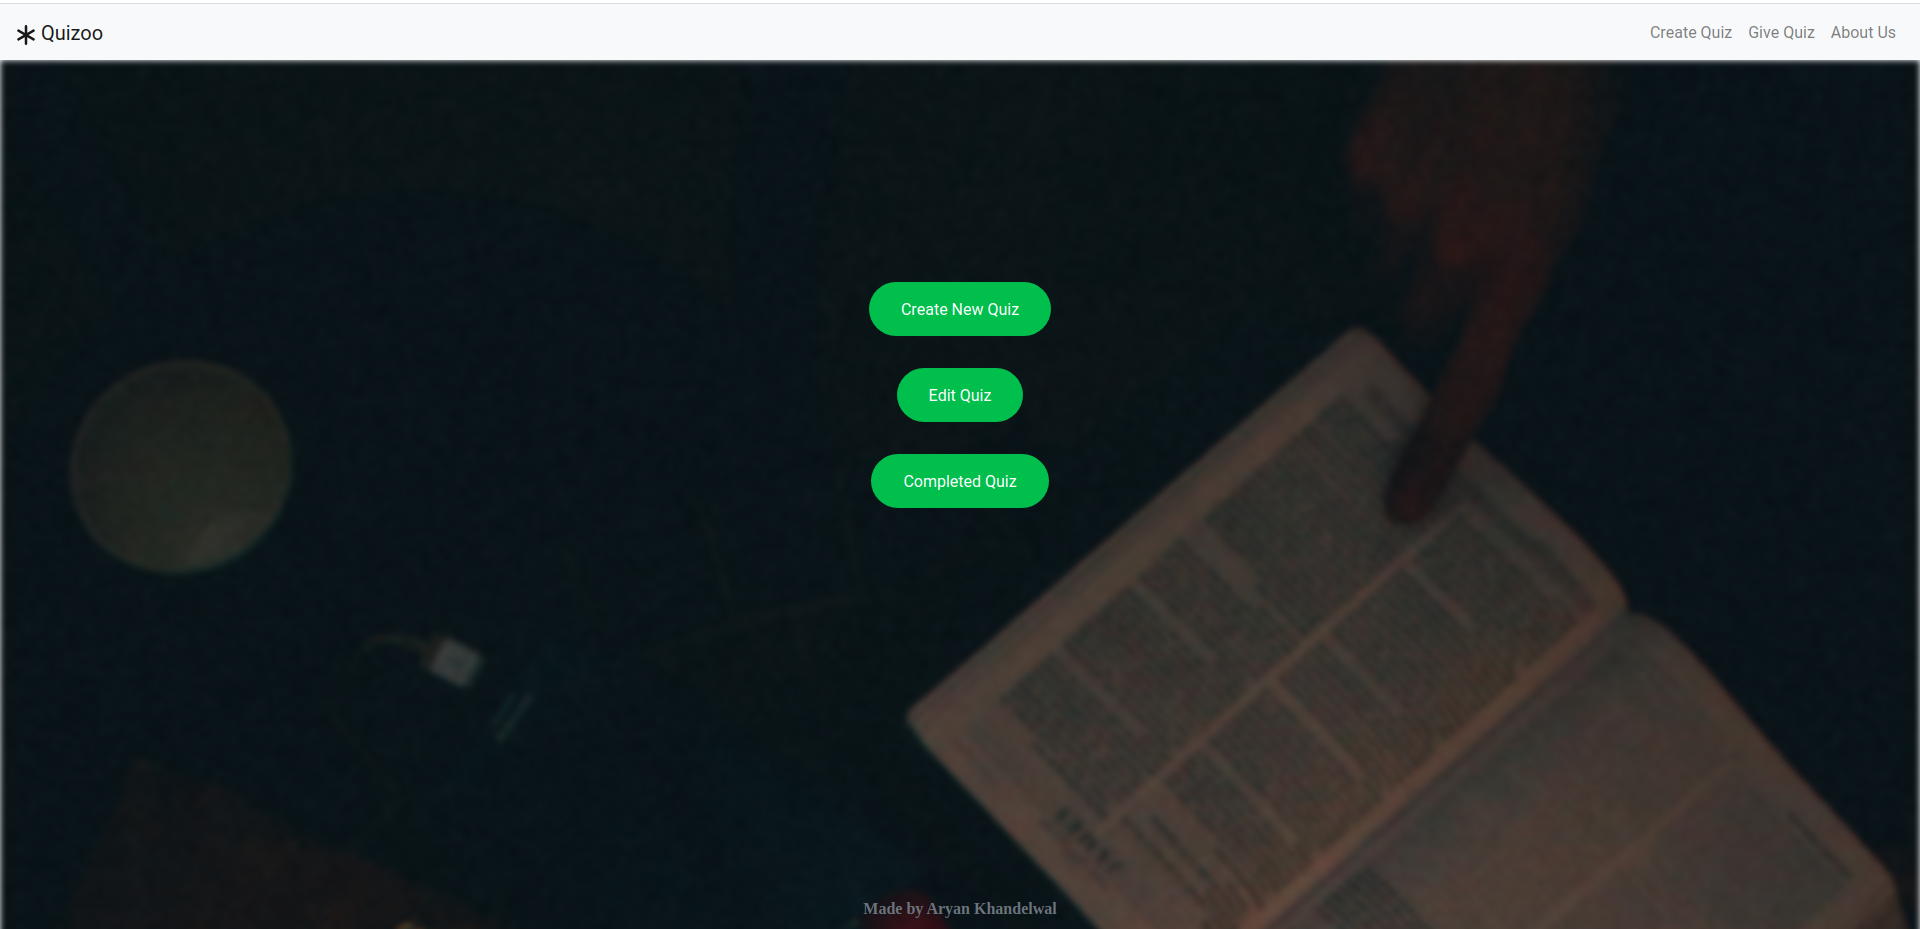
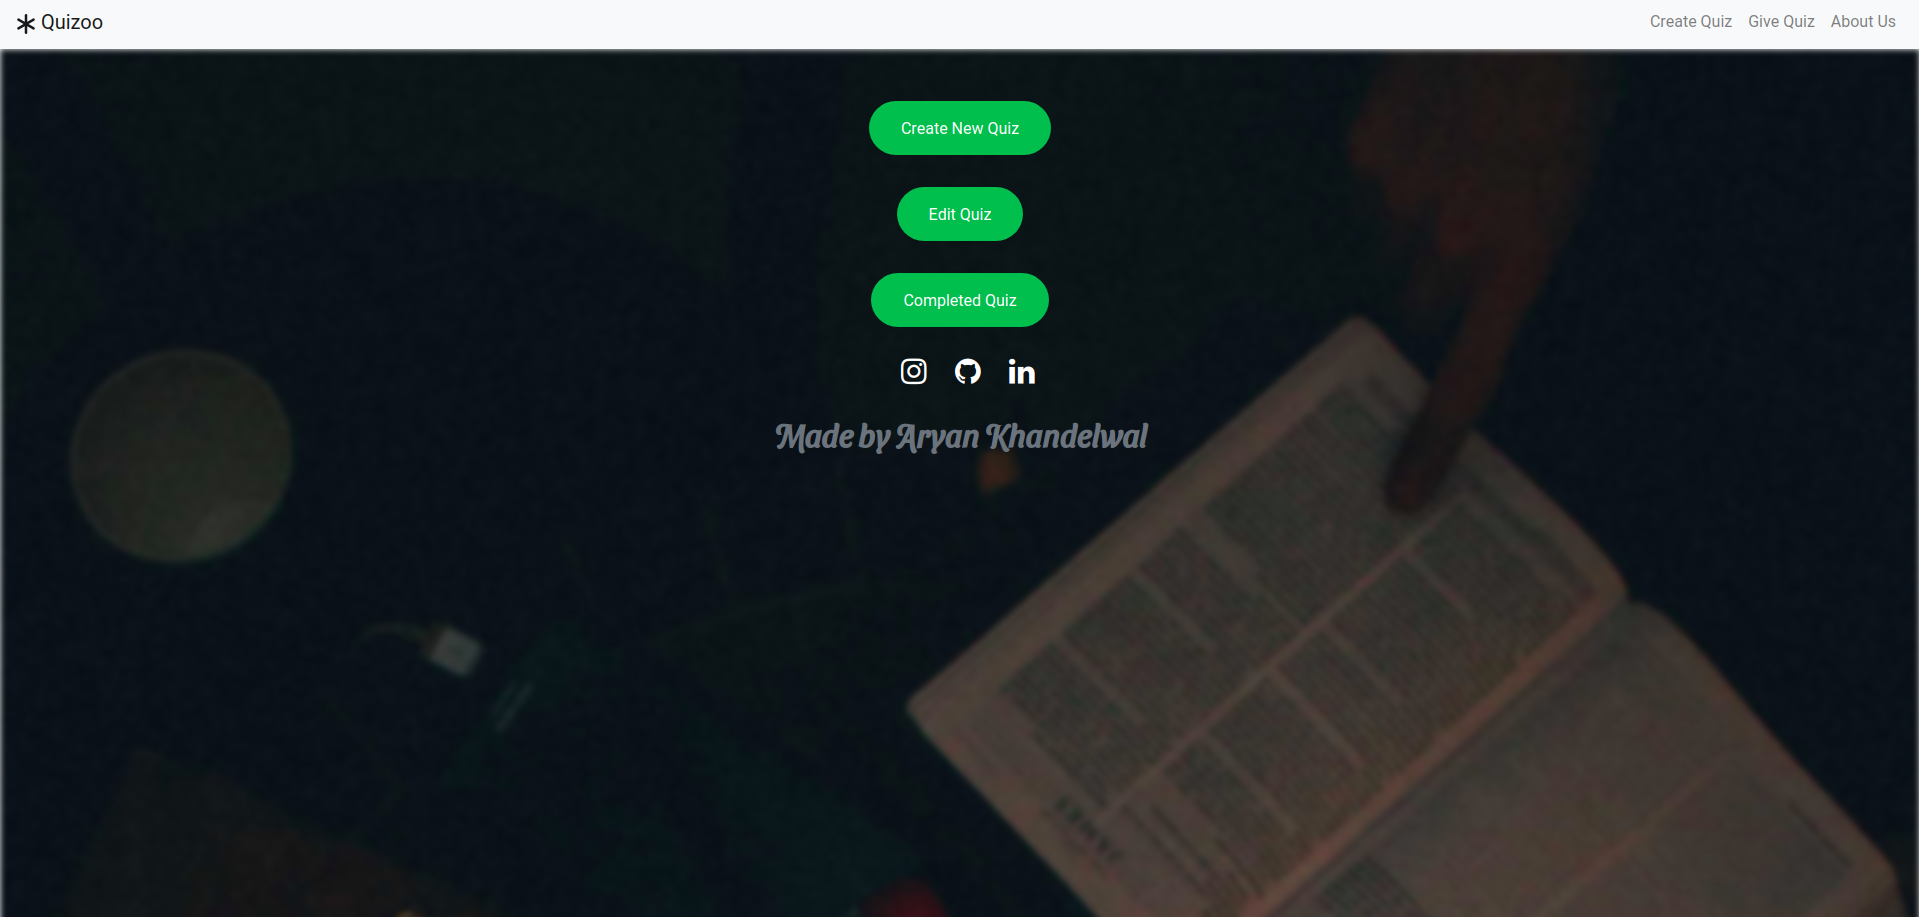
Ss added

Changed region(s): [[0.0, 0.0, 1.0, 0.3664], [0.3997, 0.3969, 0.6149, 0.5496], [0.4612, 0.9771, 0.5534, 1.0]]

diff --git a/README.md b/README.md
@@ -29,26 +29,68 @@ Free Online Quiz Platform for conducting quizes with lots of security features t
  * A nice good looking and user friendly frontend is must
  
 ### :camera: Screenshots
-Enter Quiz Code to Start Quiz    
+<table>
+<tr>
+<td>
+<kbd>
+<img src="ReadmeAssets/1.png">
+</kbd>
+</td>
+<td>
 <kbd>
 <img src="ReadmeAssets/2.png">
 </kbd>
-         
-Edit Quiz In your pannel  
+</td>
+</tr>
+<tr>
+<td>
 <kbd>
 <img src="ReadmeAssets/3.png">
 </kbd>
-         
-Detailed Analysis after test is over       
+</td>
+<td>
 <kbd>
-<img src="ReadmeAssets/4.png">    
+<img src="ReadmeAssets/4.png">
 </kbd>
-       
-         
-Quiz Settings Page      
+</td>
+</tr>
+<tr>
+<td>
 <kbd>
 <img src="ReadmeAssets/5.png">
 </kbd>
+</td>
+<td>
+<kbd>
+<img src="ReadmeAssets/6.png">
+</kbd>
+</td>
+</tr>
+<tr>
+<td>
+<kbd>
+<img src="ReadmeAssets/7.png">
+</kbd>
+</td>
+<td>
+<kbd>
+<img src="ReadmeAssets/8.png">
+</kbd>
+</td>
+</tr>
+<tr>
+<td>
+<kbd>
+<img src="ReadmeAssets/9.png">
+</kbd>
+</td>
+<td>
+<kbd>
+<img src="ReadmeAssets/10.png">
+</kbd>
+</td>
+</tr>
+</table>
 
 
 ### Contribution
